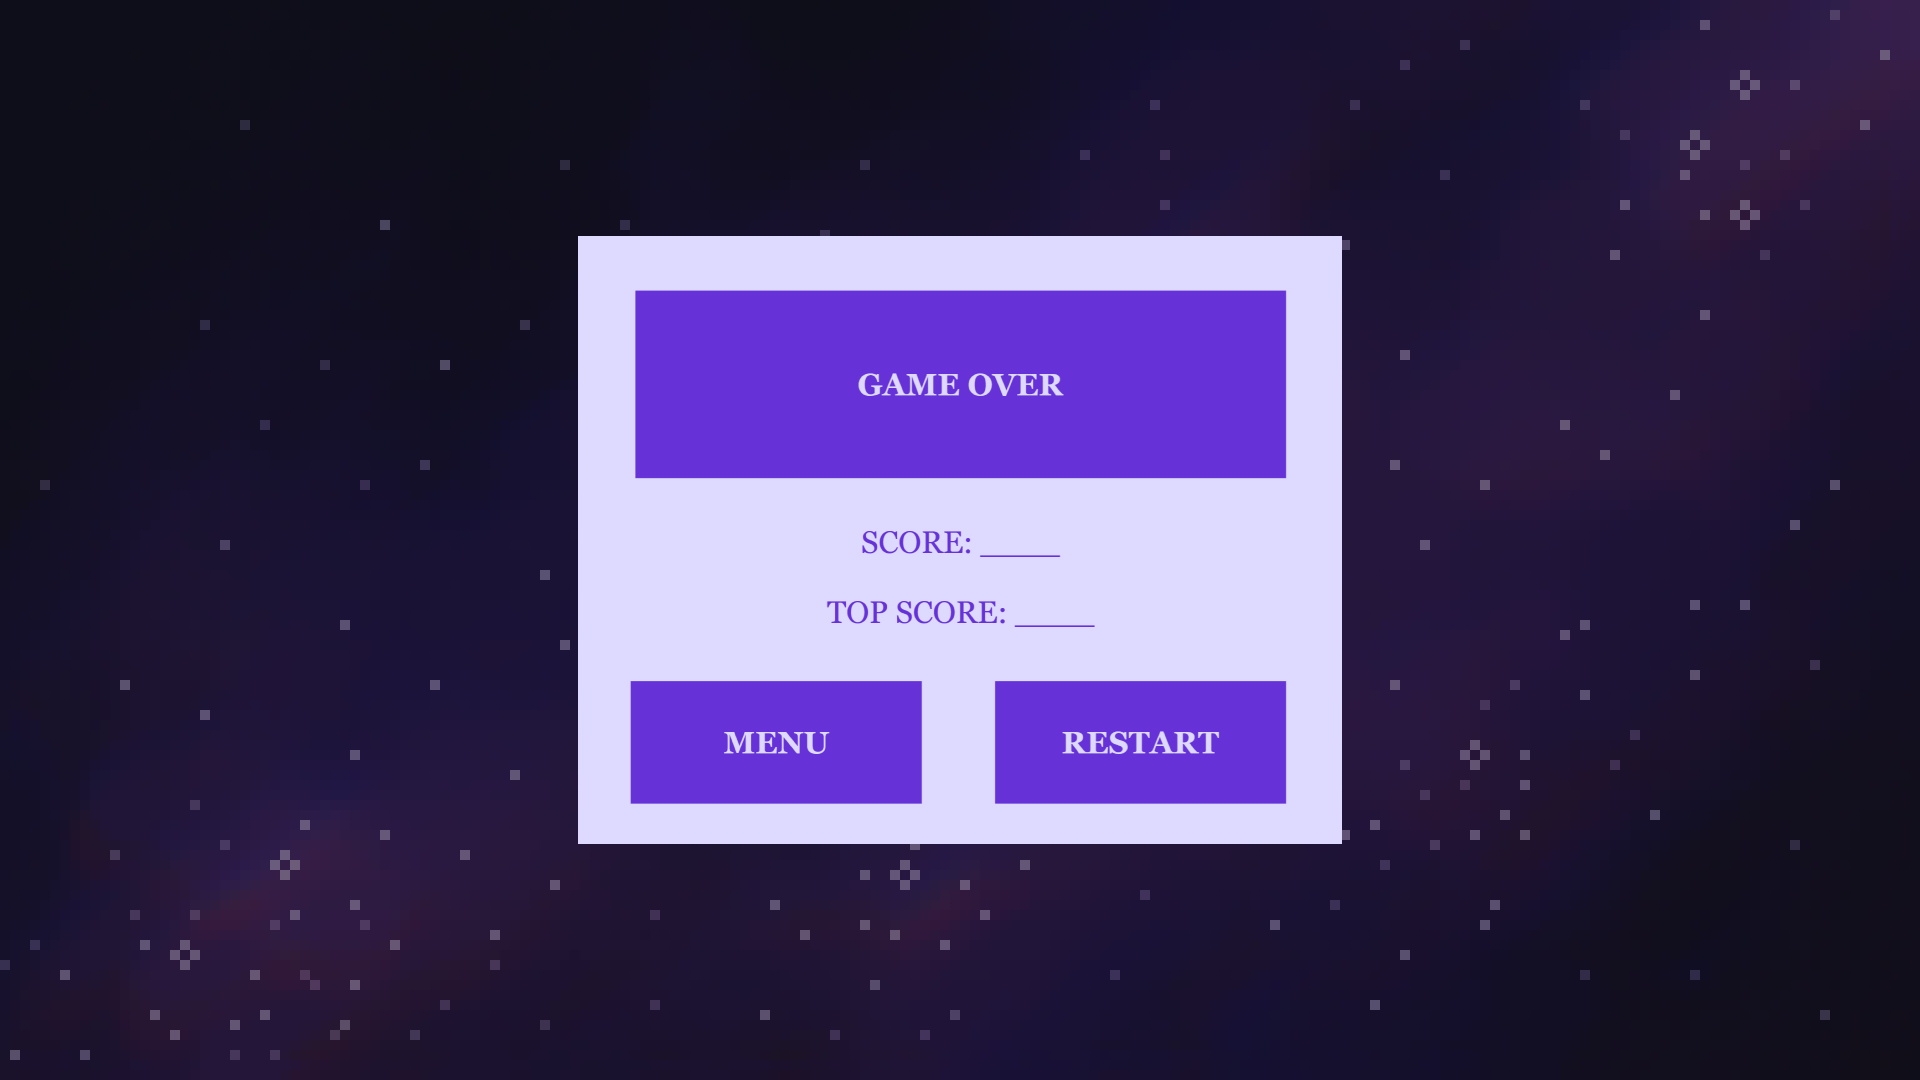
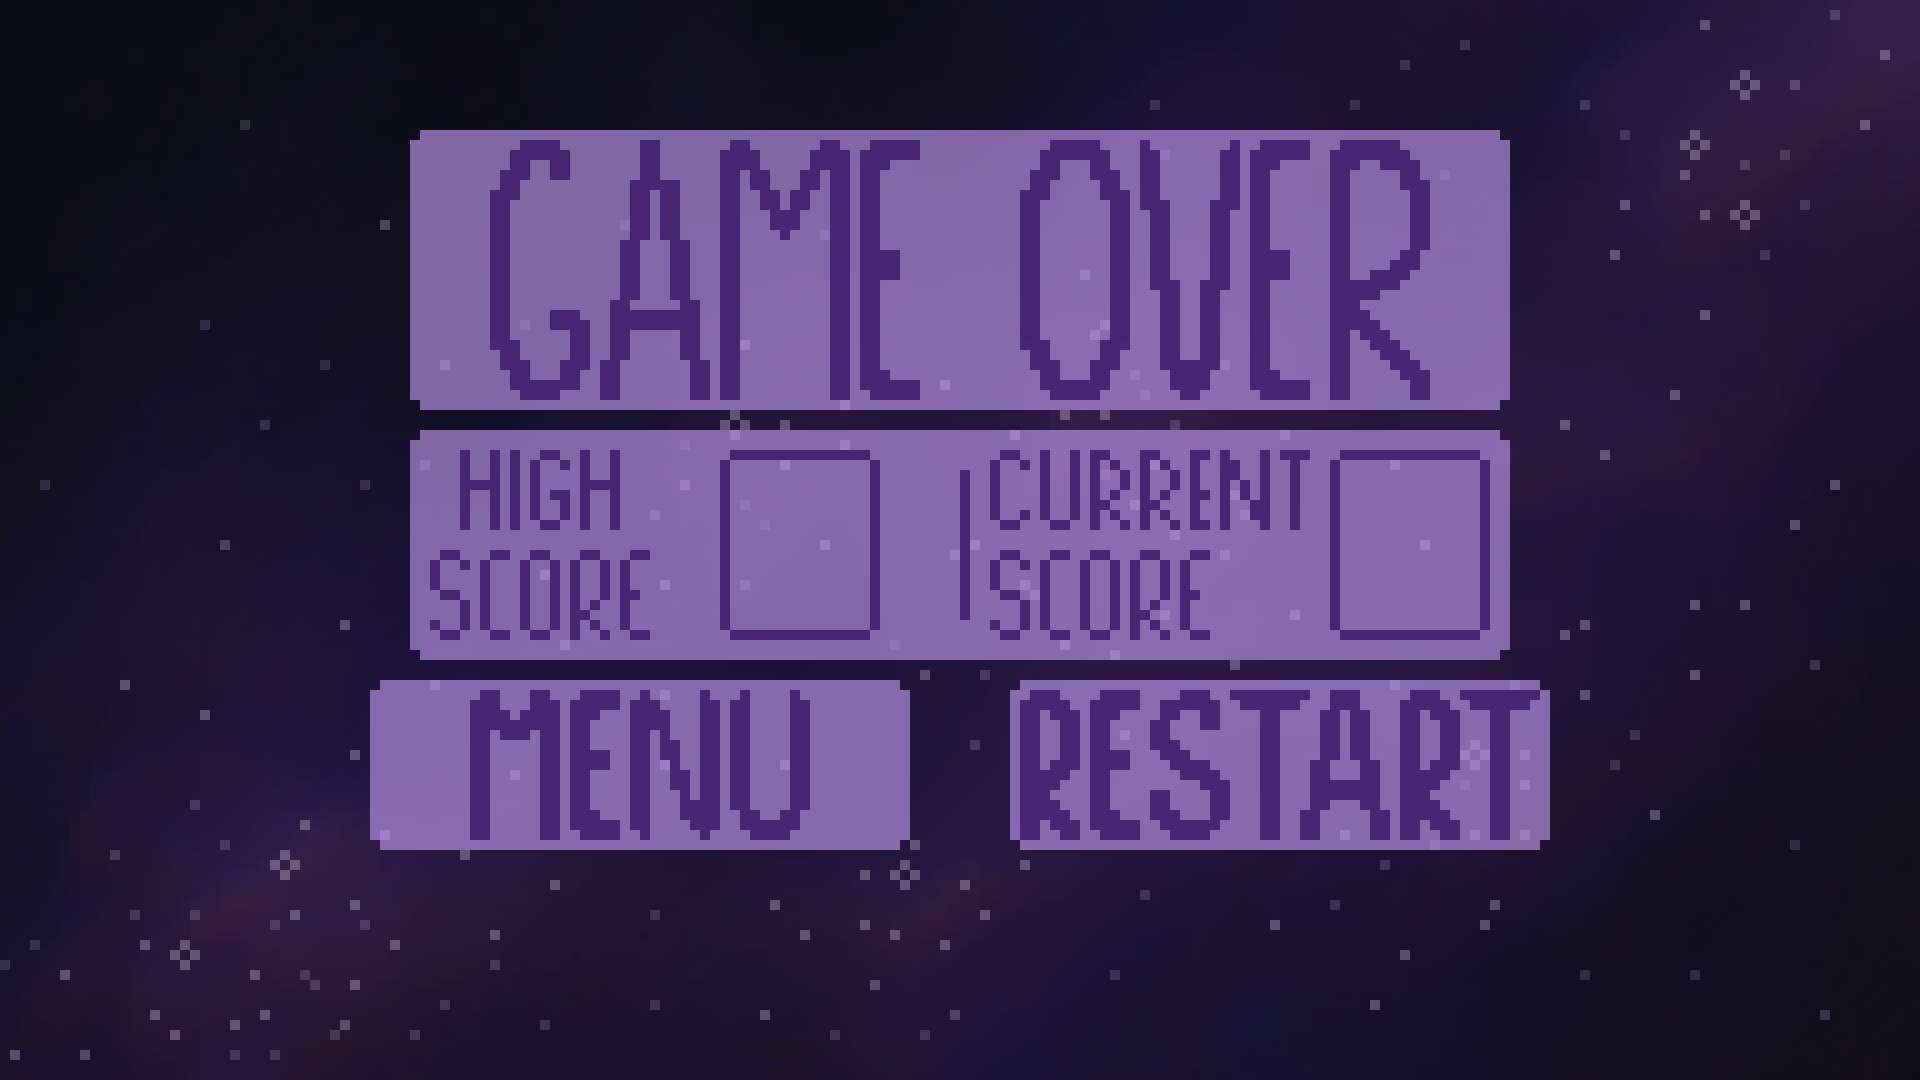
[change] Finish game over screen

diff --git a/Pidgeon/Pidgeon.py b/Pidgeon/Pidgeon.py
@@ -25,13 +25,13 @@ BirdHeight = 60
 
 #Objects (pipes)
 obj_width = 100
-obj_speed = 1.2     #How fast they move left
+obj_speed = 1.2       #1.2 or 0.8 #how fast they move left
 min_gap = 200
 max_gap = 350
-obj_spawn_interval = 800   #Time between obj spawns
+obj_spawn_interval = 800         #800 or 1000  #Time between obj spawns
 
 #Font
-font = pygame.font.SysFont(None, 48)
+font = pygame.font.SysFont(None, 50)
 
 #Menu
 state = "menu"
@@ -43,11 +43,11 @@ shop_btn  = pygame.Rect(540, 520, 420, 140)
 quit_btn  = pygame.Rect(540, 685, 420, 140)
 
 #Game over button rects
-restart_btn = pygame.Rect(750, 575, 300, 100)
-menu_btn    = pygame.Rect(450, 575, 300, 100)
+restart_btn = pygame.Rect(790, 565, 420, 140)
+menu_btn    = pygame.Rect(290, 565, 420, 140)
 
-# High score placeholder
-high_score = ":D"
+#High score placeholder
+high_score = "X"
 
 def reset_game():
     global x, y, velocity, objects, score, last_obj_spawn_time, frame_index
@@ -115,9 +115,9 @@ while running:
     if state == 'menu':
         screen.blit(menu_image, (0, 0))
         #Debug temp rects
-        pygame.draw.rect(screen, (255, 0, 0), start_btn, 2)
-        pygame.draw.rect(screen, (0,255,0), shop_btn, 2)
-        pygame.draw.rect(screen, (0,0,255), quit_btn, 2)
+        #pygame.draw.rect(screen, (255, 0, 0), start_btn, 2)
+        #pygame.draw.rect(screen, (0,255,0), shop_btn, 2)
+        #pygame.draw.rect(screen, (0,0,255), quit_btn, 2)
 
     elif state == "game":
         velocity += gravity  #Gravity works as long as game is running
@@ -193,13 +193,13 @@ while running:
     elif state == "restart":
         screen.blit(restart_image,(0, 0))
         # Debug temp buttons rects part2
-        pygame.draw.rect(screen, (255, 0, 0), restart_btn, 2)
-        pygame.draw.rect(screen, (0, 255, 0), menu_btn, 2)
+        #pygame.draw.rect(screen, (255, 0, 0), restart_btn, 2)
+        #pygame.draw.rect(screen, (0, 255, 0), menu_btn, 2)
 
         # Show scores
-        score_text = font.render(f"Score: {score}", True, (255, 255, 255))
-        high_text  = font.render(f"High Score: {high_score}", True, (255, 255, 255))
-        screen.blit(score_text, (650, 250))
-        screen.blit(high_text, (650, 300))
+        score_text = font.render(f" {score}", True, (255, 255, 255))
+        high_text  = font.render(f" {high_score}", True, (255, 255, 255)) #(71, 37, 114)
+        screen.blit(score_text, (1085, 440))
+        screen.blit(high_text, (605, 440))
 
     pygame.display.flip()         #Update the window
